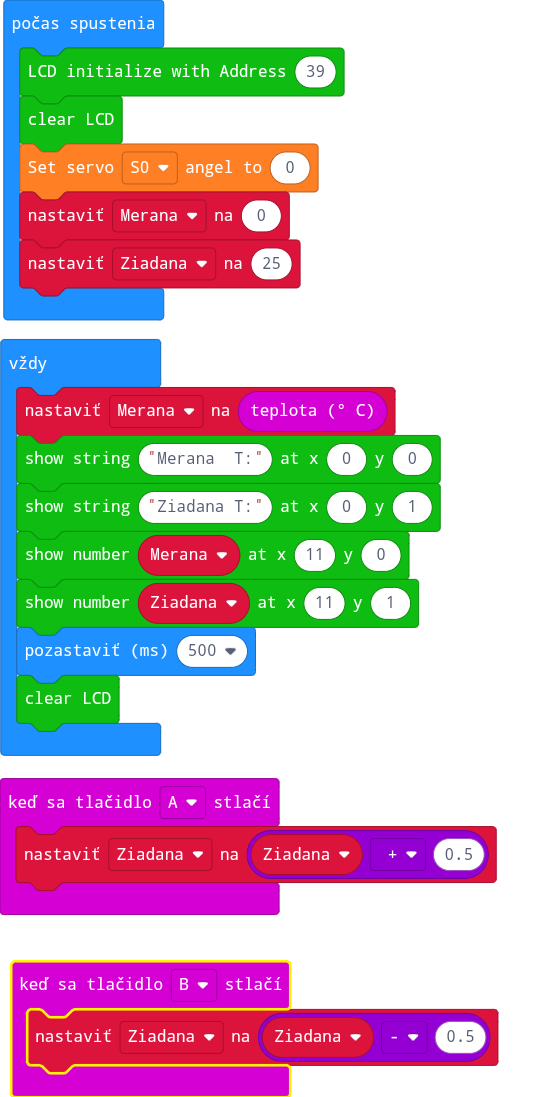
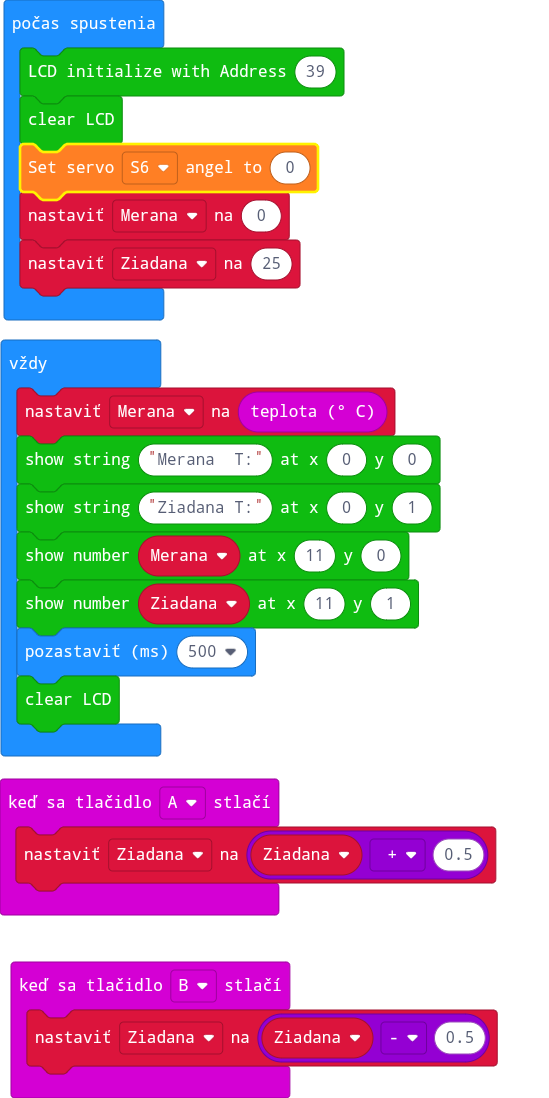
Update main.blocks, main.ts

diff --git a/main.ts b/main.ts
@@ -7,7 +7,7 @@ input.onButtonPressed(Button.B, function () {
 let Ziadana = 0
 I2C_LCD1602.LcdInit(39)
 I2C_LCD1602.clear()
-wuKong.setServoAngel(wuKong.ServoList.S0, 0)
+wuKong.setServoAngel(wuKong.ServoList.S6, 0)
 let Merana = 0
 Ziadana = 25
 basic.forever(function () {
